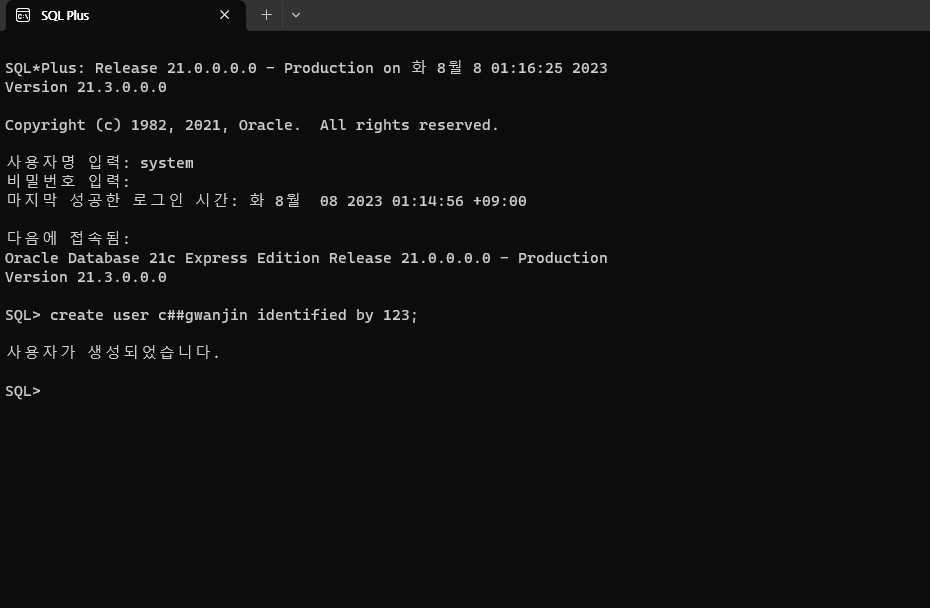
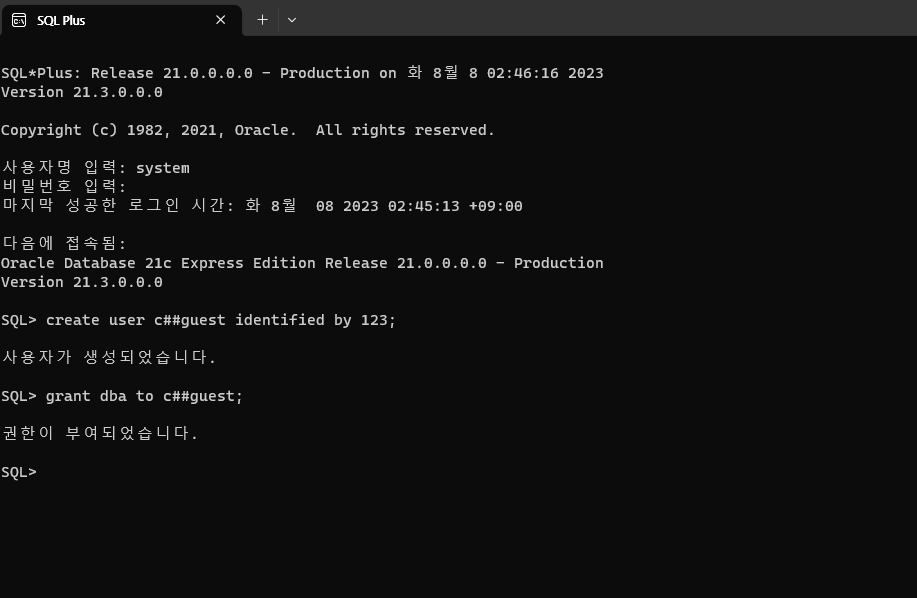
edit

diff --git a/_posts/2023-08-08-cert-sqrd-1.md b/_posts/2023-08-08-cert-sqrd-1.md
@@ -53,8 +53,11 @@ last_modified_at: 2023-08-07
     create user c##유저이름 identified by 숫자
     ```
     => 버전 12c 부터 유저 이름 앞에 c##을 붙여야 하는 규칙이 생겼다.
-3. 
-![image](/assets/images/cert-sqrd-0-1.png){: .align-center width="100%"}
+3. 다음과 같은 명령어로 유저에게 DBA 권한을 부여한다.
+    ```
+    grant dba to c##유저이름
+    ```
+  ![image](/assets/images/cert-sqrd-0-1.png){: .align-center width="100%"}
 
 <br>
 
